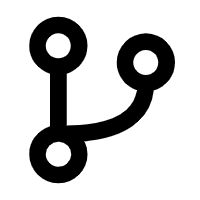
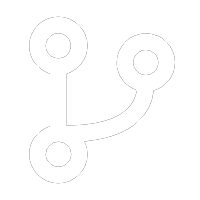
Finished with UI building

Changed region(s): [[0.12, 0.06, 0.9, 0.93]]

diff --git a/src/Home/data.source.js b/src/Home/data.source.js
@@ -615,7 +615,7 @@ export const Content30DataSource = {
           icon: {
             className: 'content3-icon',
             children:
-              '',
+              'https://raw.githubusercontent.com/RuotongX/RuotongX-website/master/public/imgsource/oop.png?token=GHSAT0AAAAAABTMLDQQZYO43CS2LMYXCK6YYTCSBCQ',
           },
           textWrapper: { className: 'content3-text' },
           title: {
@@ -638,7 +638,7 @@ export const Content30DataSource = {
           icon: {
             className: 'content3-icon',
             children:
-              'https://zos.alipayobjects.com/rmsportal/UsUmoBRyLvkIQeO.png',
+              'https://raw.githubusercontent.com/RuotongX/RuotongX-website/master/public/imgsource/TDD.png?token=GHSAT0AAAAAABTMLDQRDA4BTVXRW5SIJFQYYTCSA3Q',
           },
           textWrapper: { className: 'content3-text' },
           title: {
@@ -661,7 +661,7 @@ export const Content30DataSource = {
           icon: {
             className: 'content3-icon',
             children:
-              'https://zos.alipayobjects.com/rmsportal/ipwaQLBLflRfUrg.png',
+              'https://raw.githubusercontent.com/RuotongX/RuotongX-website/master/public/imgsource/git-branch.png?token=GHSAT0AAAAAABTMLDQR4HQAQEQ52ZZ5AM7GYTCSAQQ',
           },
           textWrapper: { className: 'content3-text' },
           title: {

diff --git a/src/Home/less/banner0.less b/src/Home/less/banner0.less
@@ -6,7 +6,7 @@
   position: relative;
   text-align: center;
   border-color: #666;
-  background-image: url(https://raw.githubusercontent.com/RuotongX/RuotongX-website/master/public/imgsource/uidesign.png?token=GHSAT0AAAAAABTMLDQQI7N4JY4BOIT3TLDQYTCQBFA);
+  background-image: url(https://raw.githubusercontent.com/RuotongX/RuotongX-website/master/public/imgsource/uidesign.png?token=GHSAT0AAAAAABTMLDQRZVUMBVQOCXO27VNMYTCSEXQ);
   background-size: contain;
   background-attachment: fixed;
   background-position:  center;
